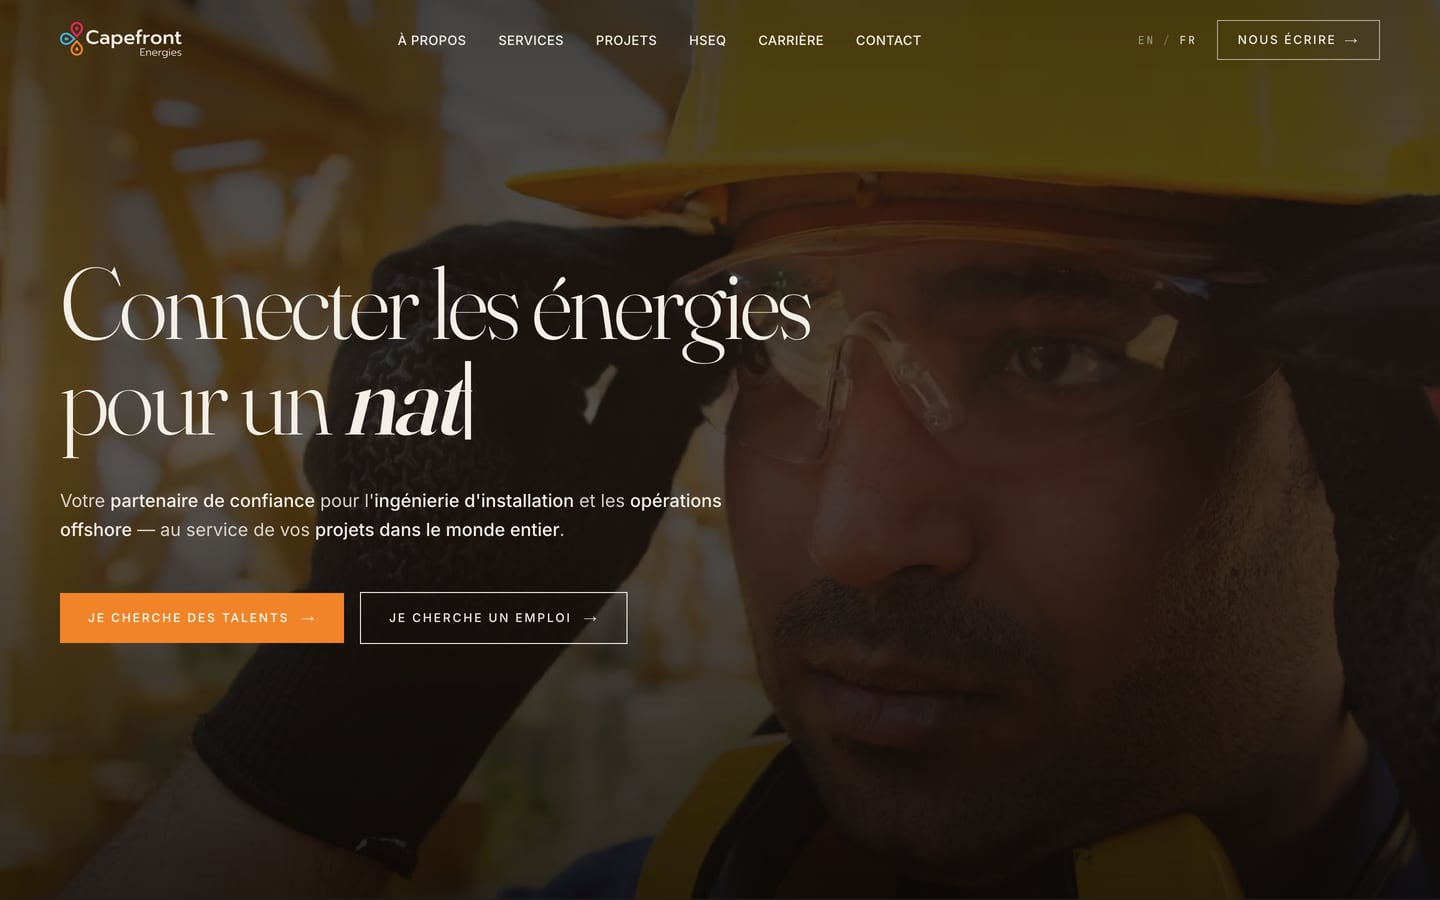
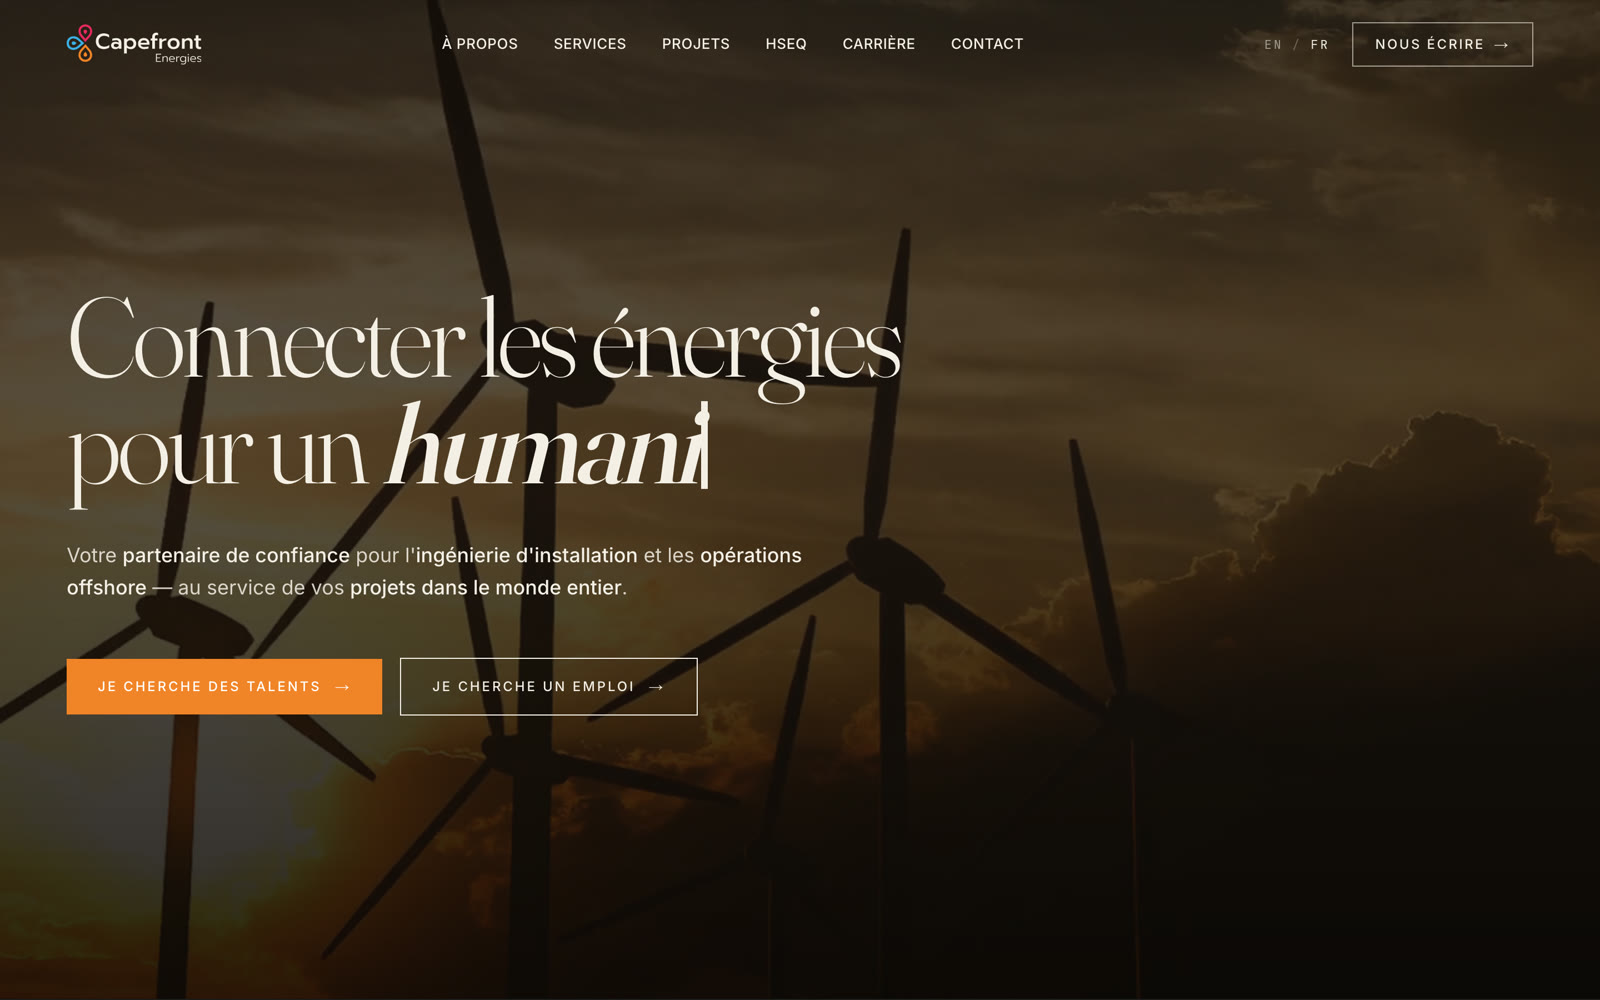
Captures web refaites (Rutherford sans bandeau cookies, Capefront, PerPost), mêmes cadrages partout

diff --git a/src/components/WebProjects.tsx b/src/components/WebProjects.tsx
@@ -34,9 +34,8 @@ export const PROJECTS: Project[] = [
     url: "rutherford.fr",
     label: "rutherford.fr",
     desktop: "/images/creation/web/rutherford-desktop.jpg",
-    video: "/videos/creation/web/rutherford.mp4",
     mobile: "/images/creation/web/rutherford-mobile.jpg",
-    mobileRatio: "440 / 953",
+    mobileRatio: "600 / 1300",
   },
   {
     name: "Top Akita Inu",
@@ -55,9 +54,8 @@ export const PROJECTS: Project[] = [
     url: "capefront-site.vercel.app",
     label: "capefront-site.vercel.app",
     desktop: "/images/creation/web/capefront-desktop.jpg",
-    video: "/videos/creation/web/capefront.mp4",
     mobile: "/images/creation/web/capefront-mobile.jpg",
-    mobileRatio: "455 / 986",
+    mobileRatio: "600 / 1300",
   },
   {
     name: "PerPost",
@@ -66,9 +64,8 @@ export const PROJECTS: Project[] = [
     url: "perpost-web.vercel.app",
     label: "perpost-web.vercel.app",
     desktop: "/images/creation/web/perpost-desktop.jpg",
-    video: "/videos/creation/web/perpost.mp4",
-    mobile: "/images/creation/web/perpost-login.jpg",
-    mobileRatio: "455 / 809",
+    mobile: "/images/creation/web/perpost-mobile.jpg",
+    mobileRatio: "600 / 1300",
   },
   {
     name: "Color Guesser",
